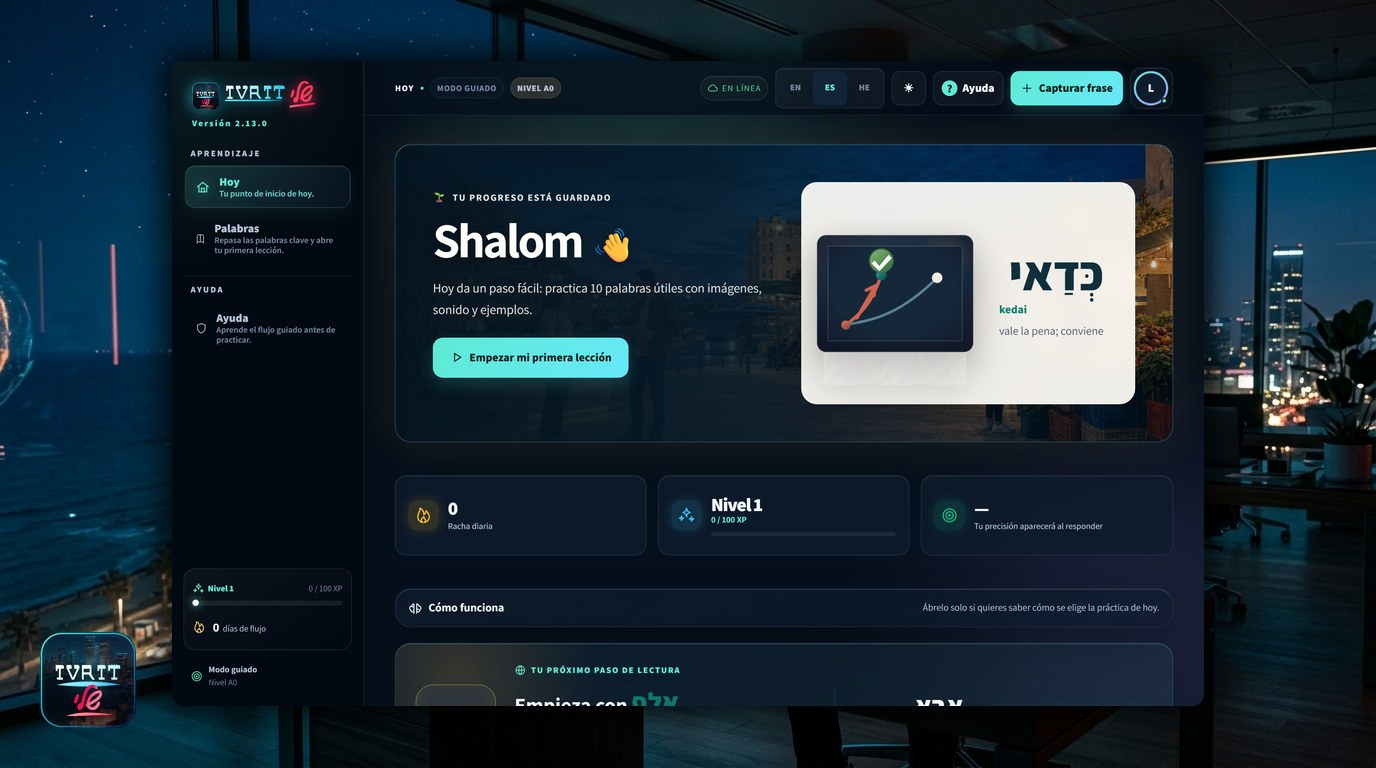
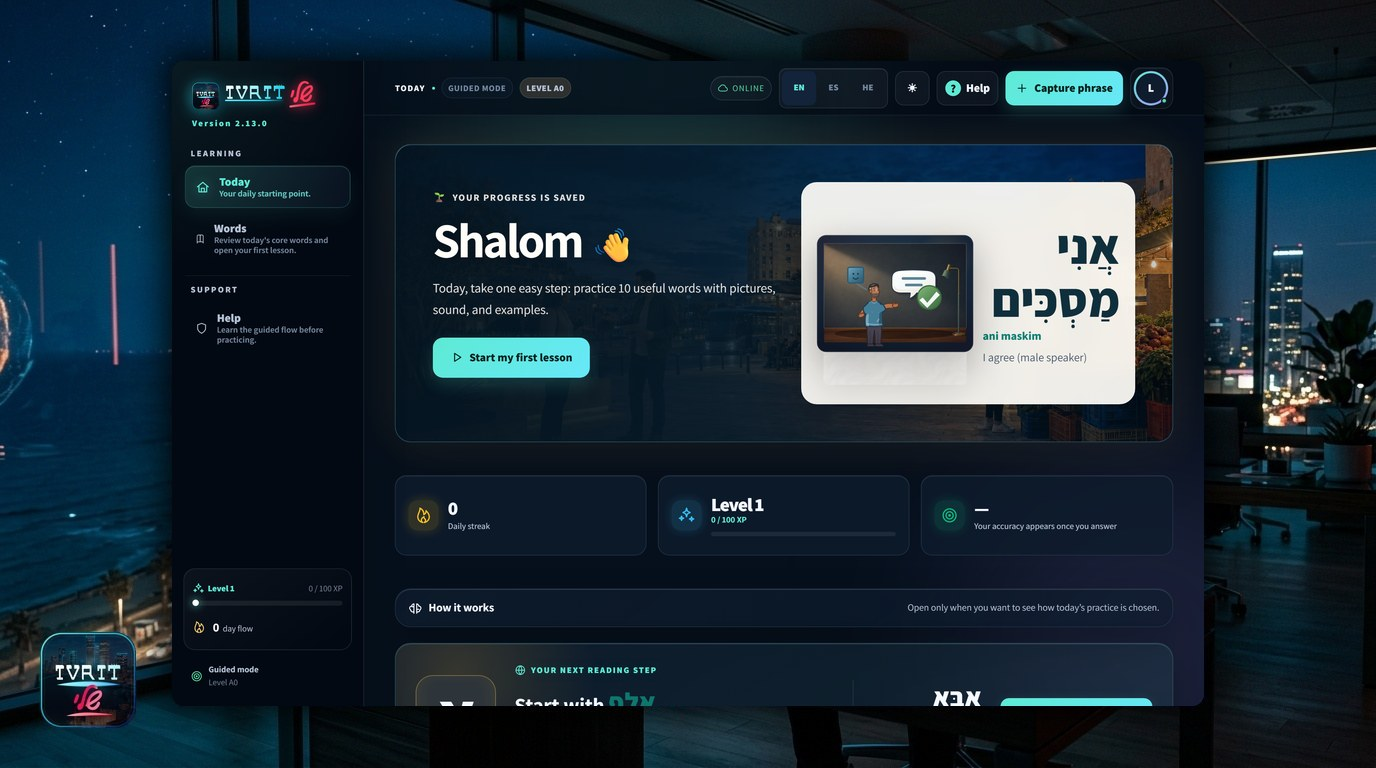
docs(readme): English captures, English title and painted hero proof
- README proof for 2.13.0 shows English captures plus the Hebrew RTL
  frame; the Spanish interface is one tap away in the app. Captured
  at 1ff60b9 from a clean tree with a generic local learner, so the
  hero card now shows a painted scene. The tour and both composed
  images use the same captures.
- verify_package names the six proof files per version: Spanish up to
  2.12.3, English from 2.13.0, so the preserved sets still verify.
- The README title is in English.
- Portfolio and test report: 1096 frontend tests.

diff --git a/scripts/verify_package.py b/scripts/verify_package.py
@@ -399,6 +399,24 @@ def verify_json_files() -> list[str]:
     return failures
 
 
+def _readme_proof_files(proof_version: str) -> set[str]:
+    """Name the six reviewed README assets of a proof set.
+
+    Up to 2.12.3 the README showed Spanish captures. From 2.13.0 it shows English ones, with the Hebrew RTL frame
+    kept, because the README's readers are recruiters and the Spanish interface is one tap away in the app.
+    """
+    version = _semantic_version_tuple(proof_version)
+    locale = "en" if version is not None and version >= (2, 13, 0) else "es"
+    return {
+        f"alphabet-desktop-light-{locale}.webp",
+        f"dictionary-desktop-dark-{locale}.webp",
+        f"today-desktop-dark-{locale}.webp",
+        "today-desktop-dark-he.webp",
+        f"today-phone-light-{locale}.webp",
+        "ivrit-sheli-tour.gif",
+    }
+
+
 def verify_readme_visual_proof() -> list[str]:
     """Bind the README's current visual proof to its reviewed bytes and truth state."""
     try:
@@ -454,14 +472,7 @@ def verify_readme_visual_proof() -> list[str]:
     if re.search(r"[A-Za-z]:[\\/]", manifest_text):
         failures.append("current README visual proof leaks an absolute Windows path")
 
-    expected_files = {
-        "alphabet-desktop-light-es.webp",
-        "dictionary-desktop-dark-es.webp",
-        "today-desktop-dark-es.webp",
-        "today-desktop-dark-he.webp",
-        "today-phone-light-es.webp",
-        "ivrit-sheli-tour.gif",
-    }
+    expected_files = _readme_proof_files(proof_version)
     assets = manifest.get("assets")
     if not isinstance(assets, list):
         return failures + ["current README visual proof assets must be a list"]

diff --git a/README.md b/README.md
@@ -8,7 +8,7 @@
 <div align="center">
   <img src="assets/brand/wordmark-nocturne.svg" alt="Ivrit Sheli wordmark" width="680" />
 
-  <h1>Ivrit Sheli 2.13.0 — El hebreo vivo de cada día</h1>
+  <h1>Ivrit Sheli 2.13.0 — Living Hebrew for every day</h1>
   <p><strong>A trilingual, local-first PWA for learning the Hebrew people meet in everyday life.</strong></p>
   <p>Guided enough for a complete beginner, deep enough to keep growing.</p>
   <p>Made for adults in Israel who are new to Hebrew, and often to apps, and who read Spanish or English.</p>
@@ -134,12 +134,12 @@ The latest published release is still **v2.12.2**; `2.12.3` and `2.13.0` are del
 ## 📸 2.13.0 Visual Proof
 
 <p align="center">
-  <img src="assets/readme/proof/2.13.0/today-desktop-dark-es.webp" width="100%" alt="Spanish dark-theme Ivrit Sheli 2.13.0 Today dashboard: a Shalom greeting over a painted evening street, the כְּדַאי (kedai, worth it) word card, and the streak, level and accuracy cards." />
+  <img src="assets/readme/proof/2.13.0/today-desktop-dark-en.webp" width="100%" alt="English dark-theme Ivrit Sheli 2.13.0 Today dashboard: a Shalom greeting over a painted evening street, the אֲנִי מַסְכִּים (ani maskim, I agree) word card with its painted scene, and the streak, level and accuracy cards." />
 </p>
 <p align="center">
-  <img src="assets/readme/proof/2.13.0/ivrit-sheli-tour.gif" width="960" alt="Ten-second non-looping Ivrit Sheli 2.13.0 tour: the Spanish Today dashboard, twelve painted word scenes, the light Alphabet Studio, the dark linked dictionary and the Hebrew RTL Today dashboard." />
+  <img src="assets/readme/proof/2.13.0/ivrit-sheli-tour.gif" width="960" alt="Ten-second non-looping Ivrit Sheli 2.13.0 tour: the English Today dashboard, twelve painted word scenes, the light Alphabet Studio, the dark linked dictionary and the Hebrew RTL Today dashboard." />
 </p>
-<p align="center"><em>A ten-second, non-looping tour: four privacy-reviewed 2.13.0 candidate captures and the painted-scene showcase.</em></p>
+<p align="center"><em>A ten-second, non-looping tour: privacy-reviewed 2.13.0 candidate captures in English and Hebrew and the painted-scene showcase.</em></p>
 
 <table>
   <tr>
@@ -147,8 +147,8 @@ The latest published release is still **v2.12.2**; `2.12.3` and `2.13.0` are del
     <td width="60%" align="center"><strong>Real Hebrew RTL layout</strong></td>
   </tr>
   <tr>
-    <td><img src="assets/readme/proof/2.13.0/today-phone-light-es.webp" width="100%" alt="Spanish light-theme phone Today dashboard: the compact ES language button, help and capture actions, the כְּדַאי word card over a painted sunlit window, the first-lesson button and bottom navigation." /></td>
-    <td><img src="assets/readme/proof/2.13.0/today-desktop-dark-he.webp" width="100%" alt="Hebrew RTL dark-theme Today dashboard with mirrored navigation, the כְּדַאי word card and a painted evening street behind the greeting." /></td>
+    <td><img src="assets/readme/proof/2.13.0/today-phone-light-en.webp" width="100%" alt="English light-theme phone Today dashboard: the compact EN language button, help and capture actions, the אֲנִי מַסְכִּים word card over a painted sunlit window, the first-lesson button and bottom navigation." /></td>
+    <td><img src="assets/readme/proof/2.13.0/today-desktop-dark-he.webp" width="100%" alt="Hebrew RTL dark-theme Today dashboard with mirrored navigation, the אֲנִי מַסְכִּים word card and a painted evening street behind the greeting." /></td>
   </tr>
 </table>
 
@@ -158,13 +158,13 @@ The latest published release is still **v2.12.2**; `2.12.3` and `2.13.0` are del
     <td width="50%" align="center"><strong>Linked dictionary</strong></td>
   </tr>
   <tr>
-    <td><img src="assets/readme/proof/2.13.0/alphabet-desktop-light-es.webp" width="100%" alt="Spanish light-theme Alphabet Studio in Ivrit Sheli, explaining 22 Hebrew base letters plus 5 positional final forms." /></td>
-    <td><img src="assets/readme/proof/2.13.0/dictionary-desktop-dark-es.webp" width="100%" alt="Spanish dark-theme linked dictionary in Ivrit Sheli with an empty search field for Hebrew, English or Spanish." /></td>
+    <td><img src="assets/readme/proof/2.13.0/alphabet-desktop-light-en.webp" width="100%" alt="English light-theme Alphabet Studio in Ivrit Sheli, explaining 22 Hebrew base letters plus 5 positional final forms." /></td>
+    <td><img src="assets/readme/proof/2.13.0/dictionary-desktop-dark-en.webp" width="100%" alt="English dark-theme linked dictionary in Ivrit Sheli with an empty search field for Hebrew, English or Spanish." /></td>
   </tr>
 </table>
 
-These five WebP assets were captured on 2026-11-02 Asia/Jerusalem from a fresh,
-generic local learner with no personal progress, built from a clean commit. Every
+These five WebP assets — English, plus the Hebrew RTL frame; the Spanish interface is one tap away
+in the app — were captured on 2026-11-02 Asia/Jerusalem from a fresh, generic local learner with no personal progress, built from a clean commit. Every
 image was reviewed at full size, at GitHub display scale and in grayscale. The GIF
 was rendered twice to byte-identical output, checked frame by frame, and contains
 no loop extension. Hashes, physical dimensions, source PNG hashes, locale,

diff --git a/TEST_REPORT.md b/TEST_REPORT.md
@@ -8,11 +8,12 @@
 
 ## Executed local gate — 2026-11-02 (phone header, Today fixes, README proof)
 
-- Frontend: `npm run typecheck` 0 errors; `npm run test:run` 1094 passed across 58 files; Playwright against the
+- Frontend: `npm run typecheck` 0 errors; `npm run test:run` 1096 passed across 58 files; Playwright against the
   served FastAPI build (CSP active) 46 passed / 42 intentional scoped skips / 0 failures, after fixing a
   label-in-name violation on the compact language button that the 390 px axe scan caught.
 - Top bar swept at 15 viewports from 320 to 1440 px in Spanish and Hebrew (90 checks): no wrapped or overflowing bar.
-- README proof captured with `npm run capture:readme` from a fresh generic local learner at a clean commit; WebP and
+- README proof captured in English and Hebrew with `npm run capture:readme` from a fresh generic local learner at a
+  clean commit; WebP and
   GIF files reviewed at full size, at display scale and in grayscale; the GIF rendered twice to identical bytes.
 - Hosted staging rechecked on 2026-11-02 after a manual redeploy of `7a4756a`: `/version` 2.13.0 at that commit,
   `/health/ready` with `postgresql: true` and 240 entries, strict CSP and HSTS headers, Google redirect starts.

diff --git a/CHANGELOG.md b/CHANGELOG.md
@@ -41,8 +41,10 @@
   "Shalom, Local".
 - 2026-11-02: "excuse me" (greetings.excuse_me) gains a painted Israel Railways carriage with a dark-theme version,
   so 157 of the 165 paintable scenes now sit on painted settings; the eight left are maps, arrows and notice cards.
-- 2026-11-02: README visual proof moves to 2.13.0: five captures from a clean commit and a ten-second tour that plays
-  once and includes the painted scenes. The 2.12.3 and 2.12.2 sets and the 2.13.0 art-pass sheets stay preserved.
+- 2026-11-02: Today's hero card leads with a painted place: when the daily rotation opens on a counting diagram or a
+  notice card, the first painted scene of the same six takes the hero, and the others stay in the strip.
+- 2026-11-02: README visual proof moves to 2.13.0: five captures in English plus the Hebrew RTL frame, from a clean
+  commit, and a ten-second tour that plays once and includes the painted scenes. The README title is in English. The 2.12.3 and 2.12.2 sets and the 2.13.0 art-pass sheets stay preserved.
 
 # Changelog
 
